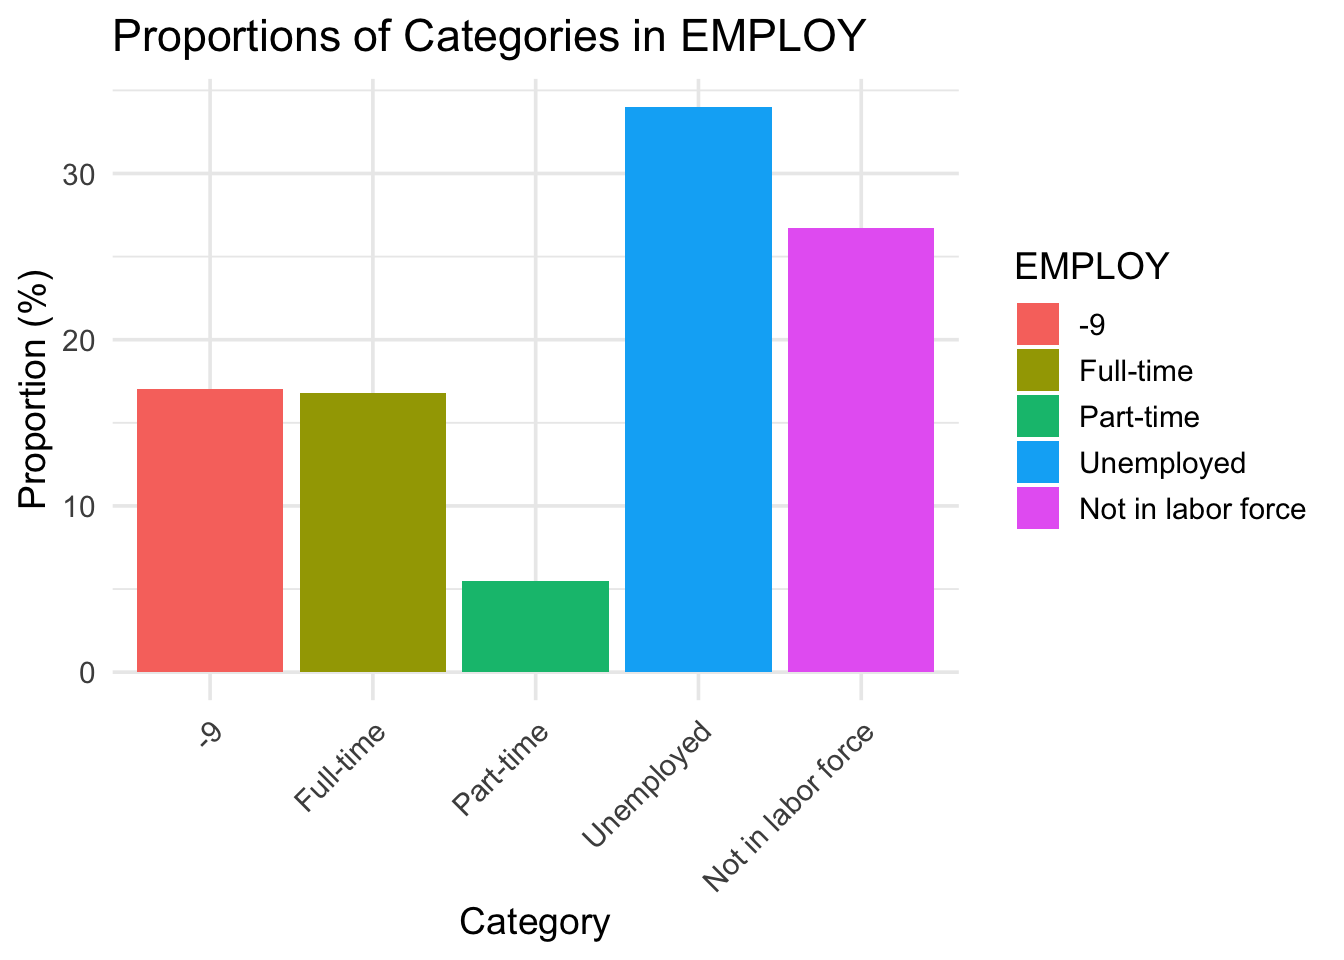
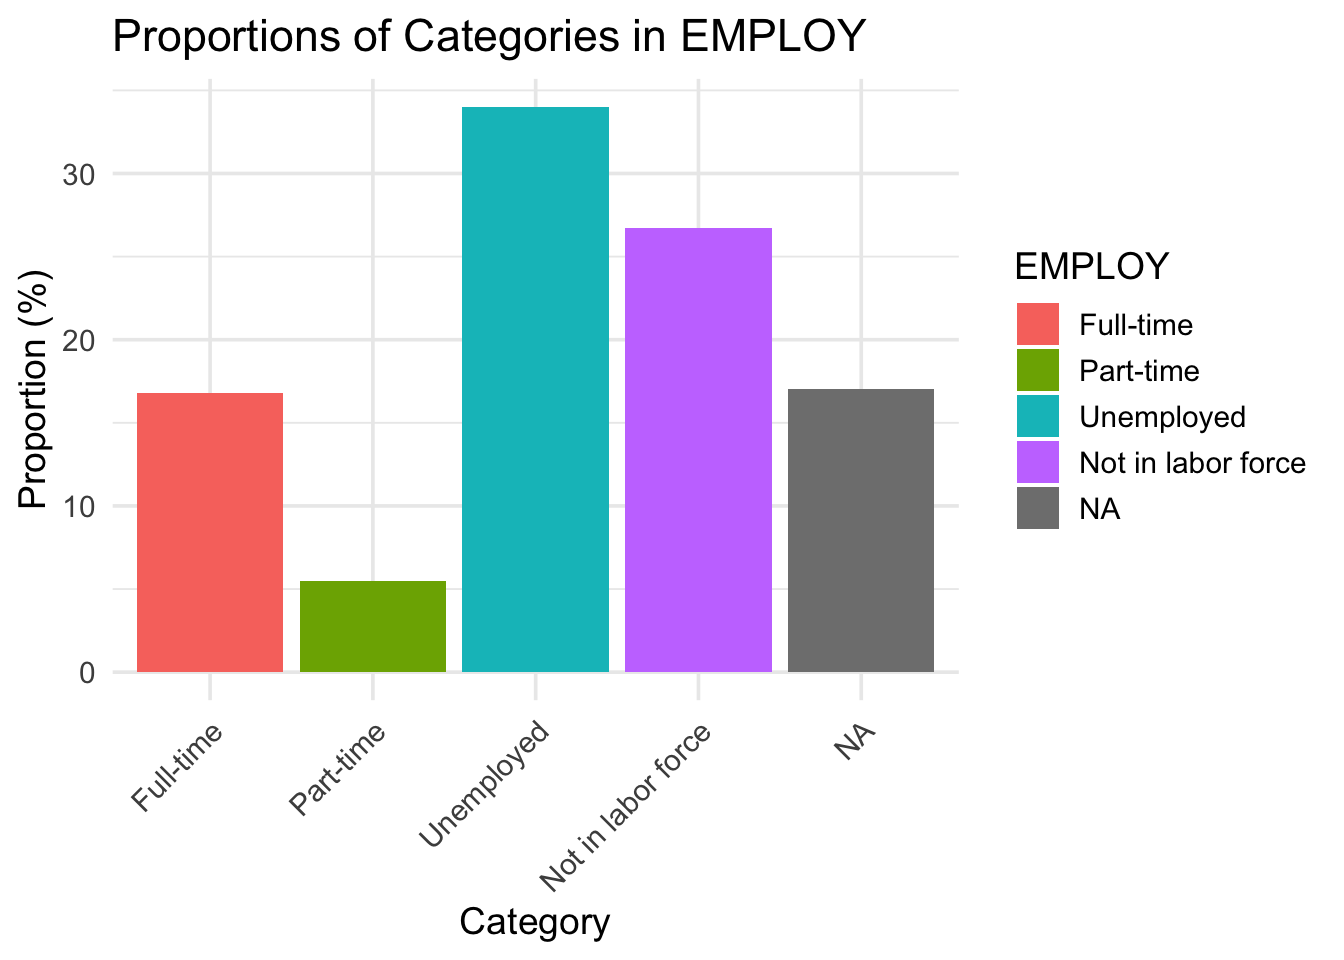
modified data.qmd

diff --git a/docs/data.html b/docs/data.html
@@ -206,11 +206,12 @@ pre > code.sourceCode > span > a:first-child::before { text-decoration: underlin
 <span id="cb2-6"><a href="#cb2-6" aria-hidden="true" tabindex="-1"></a>  } <span class="cf">else</span> {</span>
 <span id="cb2-7"><a href="#cb2-7" aria-hidden="true" tabindex="-1"></a>    col</span>
 <span id="cb2-8"><a href="#cb2-8" aria-hidden="true" tabindex="-1"></a>  }</span>
-<span id="cb2-9"><a href="#cb2-9" aria-hidden="true" tabindex="-1"></a>}))</span></code><button title="Copy to Clipboard" class="code-copy-button"><i class="bi"></i></button></pre></div>
+<span id="cb2-9"><a href="#cb2-9" aria-hidden="true" tabindex="-1"></a>}))</span>
+<span id="cb2-10"><a href="#cb2-10" aria-hidden="true" tabindex="-1"></a></span>
+<span id="cb2-11"><a href="#cb2-11" aria-hidden="true" tabindex="-1"></a>tedsa_puf_2021_r[tedsa_puf_2021_r <span class="sc">==</span> <span class="sc">-</span><span class="dv">9</span>] <span class="ot">&lt;-</span> <span class="cn">NA</span></span></code><button title="Copy to Clipboard" class="code-copy-button"><i class="bi"></i></button></pre></div>
 </details>
 </div>
-<p>While the TEDS-A dataset provides extensive coverage of treatment admissions in 2021, it has several limitations due to missing or incomplete data. Some variables contain a significant proportion of missing values, coded as -9 to denote unknown, invalid, or uncollected data. For example, the pregnancy status variable is missing for 68.8% of cases, primarily because this variable is not applicable to male clients. Employment status has 17.0% missing data, likely reflecting cases where the information was unavailable or not collected. Similarly, frequency of substance use for primary substances has 18.8% missing values. These missing data points can pose challenges for analysis by reducing the reliability of certain conclusions.</p>
-<p>In the graph below, -9 represents missing data in the dataset.</p>
+<p>While the TEDS-A dataset provides extensive coverage of treatment admissions in 2021, it has several limitations due to missing or incomplete data. Some variables contain a significant proportion of missing values, invalid, or uncollected data. For example, employment status has 17.0% missing data, likely reflecting cases where the information was unavailable or not collected. Similarly, frequency of substance use for primary substances has 18.8% missing values. These missing data points can pose challenges for analysis by reducing the reliability of certain conclusions.</p>
 <div class="cell">
 <details class="code-fold">
 <summary>Code</summary>
@@ -241,7 +242,7 @@ Attaching package: 'dplyr'</code></pre>
 <span id="cb7-6"><a href="#cb7-6" aria-hidden="true" tabindex="-1"></a>           <span class="at">variable =</span> column)</span>
 <span id="cb7-7"><a href="#cb7-7" aria-hidden="true" tabindex="-1"></a>}</span>
 <span id="cb7-8"><a href="#cb7-8" aria-hidden="true" tabindex="-1"></a></span>
-<span id="cb7-9"><a href="#cb7-9" aria-hidden="true" tabindex="-1"></a>variables <span class="ot">&lt;-</span> <span class="fu">c</span>(<span class="st">"EMPLOY"</span>, <span class="st">"PREG"</span>, <span class="st">"FREQ1"</span>)</span>
+<span id="cb7-9"><a href="#cb7-9" aria-hidden="true" tabindex="-1"></a>variables <span class="ot">&lt;-</span> <span class="fu">c</span>(<span class="st">"EMPLOY"</span>, <span class="st">"FREQ1"</span>)</span>
 <span id="cb7-10"><a href="#cb7-10" aria-hidden="true" tabindex="-1"></a></span>
 <span id="cb7-11"><a href="#cb7-11" aria-hidden="true" tabindex="-1"></a><span class="cf">for</span> (var <span class="cf">in</span> variables) {</span>
 <span id="cb7-12"><a href="#cb7-12" aria-hidden="true" tabindex="-1"></a>  plot_data <span class="ot">&lt;-</span> <span class="fu">calculate_proportions</span>(tedsa_puf_2021_r, var)</span>
@@ -276,10 +277,29 @@ Attaching package: 'dplyr'</code></pre>
 </figure>
 </div>
 </div>
+</div>
+<div class="cell">
+<details class="code-fold">
+<summary>Code</summary>
+<div class="sourceCode cell-code" id="cb9"><pre class="sourceCode r code-with-copy"><code class="sourceCode r"><span id="cb9-1"><a href="#cb9-1" aria-hidden="true" tabindex="-1"></a><span class="fu">library</span>(redav)</span>
+<span id="cb9-2"><a href="#cb9-2" aria-hidden="true" tabindex="-1"></a><span class="fu">library</span>(ggplot2)</span>
+<span id="cb9-3"><a href="#cb9-3" aria-hidden="true" tabindex="-1"></a></span>
+<span id="cb9-4"><a href="#cb9-4" aria-hidden="true" tabindex="-1"></a>cols_to_keep <span class="ot">&lt;-</span> <span class="fu">c</span>(<span class="st">"AGE"</span>, <span class="st">"GENDER"</span>, <span class="st">"RACE"</span>, <span class="st">"MARSTAT"</span>, <span class="st">"EDUC"</span>, <span class="st">"EMPLOY"</span>, <span class="st">"LIVARAG"</span>, <span class="st">"SERVICES"</span>, </span>
+<span id="cb9-5"><a href="#cb9-5" aria-hidden="true" tabindex="-1"></a>                  <span class="st">"METHUSE"</span>, <span class="st">"DAYWAIT"</span>, <span class="st">"SUB1"</span>, <span class="st">"FREQ1"</span>, <span class="st">"FRSTUSE1"</span>, <span class="st">"DSMCRIT"</span>)</span>
+<span id="cb9-6"><a href="#cb9-6" aria-hidden="true" tabindex="-1"></a>tedsa_puf_2021_r_new <span class="ot">&lt;-</span> tedsa_puf_2021_r[ , cols_to_keep]</span>
+<span id="cb9-7"><a href="#cb9-7" aria-hidden="true" tabindex="-1"></a></span>
+<span id="cb9-8"><a href="#cb9-8" aria-hidden="true" tabindex="-1"></a><span class="fu">plot_missing</span>(tedsa_puf_2021_r_new, <span class="at">max_rows=</span><span class="dv">5</span>, <span class="at">max_cols=</span><span class="dv">7</span>)</span></code><button title="Copy to Clipboard" class="code-copy-button"><i class="bi"></i></button></pre></div>
+</details>
+<div class="cell-output cell-output-stderr">
+<pre><code>Scale for y is already present.
+Adding another scale for y, which will replace the existing scale.
+Scale for y is already present.
+Adding another scale for y, which will replace the existing scale.</code></pre>
+</div>
 <div class="cell-output-display">
 <div>
 <figure class="figure">
-<p><img src="data_files/figure-html/unnamed-chunk-3-3.png" class="img-fluid figure-img" width="672"></p>
+<p><img src="data_files/figure-html/unnamed-chunk-4-1.png" class="img-fluid figure-img" width="672"></p>
 </figure>
 </div>
 </div>
@@ -287,33 +307,27 @@ Attaching package: 'dplyr'</code></pre>
 <div class="cell">
 <details class="code-fold">
 <summary>Code</summary>
-<div class="sourceCode cell-code" id="cb9"><pre class="sourceCode r code-with-copy"><code class="sourceCode r"><span id="cb9-1"><a href="#cb9-1" aria-hidden="true" tabindex="-1"></a>tedsa_puf_2021_r[tedsa_puf_2021_r <span class="sc">==</span> <span class="sc">-</span><span class="dv">9</span>] <span class="ot">&lt;-</span> <span class="cn">NA</span></span></code><button title="Copy to Clipboard" class="code-copy-button"><i class="bi"></i></button></pre></div>
-</details>
-</div>
-<div class="cell">
-<details class="code-fold">
-<summary>Code</summary>
-<div class="sourceCode cell-code" id="cb10"><pre class="sourceCode r code-with-copy"><code class="sourceCode r"><span id="cb10-1"><a href="#cb10-1" aria-hidden="true" tabindex="-1"></a><span class="fu">library</span>(naniar)</span>
-<span id="cb10-2"><a href="#cb10-2" aria-hidden="true" tabindex="-1"></a><span class="fu">library</span>(ggplot2)</span>
-<span id="cb10-3"><a href="#cb10-3" aria-hidden="true" tabindex="-1"></a></span>
-<span id="cb10-4"><a href="#cb10-4" aria-hidden="true" tabindex="-1"></a>missing_summary <span class="ot">&lt;-</span> <span class="fu">colSums</span>(<span class="fu">is.na</span>(tedsa_puf_2021_r)) <span class="sc">/</span> <span class="fu">nrow</span>(tedsa_puf_2021_r) <span class="sc">*</span> <span class="dv">100</span></span>
-<span id="cb10-5"><a href="#cb10-5" aria-hidden="true" tabindex="-1"></a>missing_data <span class="ot">&lt;-</span> <span class="fu">data.frame</span>(</span>
-<span id="cb10-6"><a href="#cb10-6" aria-hidden="true" tabindex="-1"></a>  <span class="at">Variable =</span> <span class="fu">names</span>(missing_summary),</span>
-<span id="cb10-7"><a href="#cb10-7" aria-hidden="true" tabindex="-1"></a>  <span class="at">MissingPercentage =</span> missing_summary</span>
-<span id="cb10-8"><a href="#cb10-8" aria-hidden="true" tabindex="-1"></a>)</span>
-<span id="cb10-9"><a href="#cb10-9" aria-hidden="true" tabindex="-1"></a></span>
-<span id="cb10-10"><a href="#cb10-10" aria-hidden="true" tabindex="-1"></a><span class="fu">ggplot</span>(missing_data, <span class="fu">aes</span>(<span class="at">x =</span> <span class="fu">reorder</span>(Variable, <span class="sc">-</span>MissingPercentage), <span class="at">y =</span> MissingPercentage, <span class="at">fill =</span> Variable)) <span class="sc">+</span></span>
-<span id="cb10-11"><a href="#cb10-11" aria-hidden="true" tabindex="-1"></a>  <span class="fu">geom_bar</span>(<span class="at">stat =</span> <span class="st">"identity"</span>, <span class="at">show.legend =</span> <span class="cn">FALSE</span>) <span class="sc">+</span></span>
-<span id="cb10-12"><a href="#cb10-12" aria-hidden="true" tabindex="-1"></a>  <span class="fu">labs</span>(</span>
-<span id="cb10-13"><a href="#cb10-13" aria-hidden="true" tabindex="-1"></a>    <span class="at">title =</span> <span class="st">"Missing Data Distribution by Variable"</span>,</span>
-<span id="cb10-14"><a href="#cb10-14" aria-hidden="true" tabindex="-1"></a>    <span class="at">x =</span> <span class="st">"Variable"</span>,</span>
-<span id="cb10-15"><a href="#cb10-15" aria-hidden="true" tabindex="-1"></a>    <span class="at">y =</span> <span class="st">"Missing Percentage (%)"</span></span>
-<span id="cb10-16"><a href="#cb10-16" aria-hidden="true" tabindex="-1"></a>  ) <span class="sc">+</span></span>
-<span id="cb10-17"><a href="#cb10-17" aria-hidden="true" tabindex="-1"></a>  <span class="fu">theme_minimal</span>(<span class="at">base_size =</span> <span class="dv">14</span>) <span class="sc">+</span></span>
-<span id="cb10-18"><a href="#cb10-18" aria-hidden="true" tabindex="-1"></a>  <span class="fu">theme</span>(</span>
-<span id="cb10-19"><a href="#cb10-19" aria-hidden="true" tabindex="-1"></a>    <span class="at">axis.text.x =</span> <span class="fu">element_text</span>(<span class="at">size =</span> <span class="dv">6</span>, <span class="at">angle =</span> <span class="dv">45</span>, <span class="at">hjust =</span> <span class="dv">1</span>), </span>
-<span id="cb10-20"><a href="#cb10-20" aria-hidden="true" tabindex="-1"></a>    <span class="at">axis.text.y =</span> <span class="fu">element_text</span>(<span class="at">size =</span> <span class="dv">8</span>) </span>
-<span id="cb10-21"><a href="#cb10-21" aria-hidden="true" tabindex="-1"></a>  )</span></code><button title="Copy to Clipboard" class="code-copy-button"><i class="bi"></i></button></pre></div>
+<div class="sourceCode cell-code" id="cb11"><pre class="sourceCode r code-with-copy"><code class="sourceCode r"><span id="cb11-1"><a href="#cb11-1" aria-hidden="true" tabindex="-1"></a><span class="fu">library</span>(naniar)</span>
+<span id="cb11-2"><a href="#cb11-2" aria-hidden="true" tabindex="-1"></a><span class="fu">library</span>(ggplot2)</span>
+<span id="cb11-3"><a href="#cb11-3" aria-hidden="true" tabindex="-1"></a></span>
+<span id="cb11-4"><a href="#cb11-4" aria-hidden="true" tabindex="-1"></a>missing_summary <span class="ot">&lt;-</span> <span class="fu">colSums</span>(<span class="fu">is.na</span>(tedsa_puf_2021_r_new)) <span class="sc">/</span> <span class="fu">nrow</span>(tedsa_puf_2021_r_new) <span class="sc">*</span> <span class="dv">100</span></span>
+<span id="cb11-5"><a href="#cb11-5" aria-hidden="true" tabindex="-1"></a>missing_data <span class="ot">&lt;-</span> <span class="fu">data.frame</span>(</span>
+<span id="cb11-6"><a href="#cb11-6" aria-hidden="true" tabindex="-1"></a>  <span class="at">Variable =</span> <span class="fu">names</span>(missing_summary),</span>
+<span id="cb11-7"><a href="#cb11-7" aria-hidden="true" tabindex="-1"></a>  <span class="at">MissingPercentage =</span> missing_summary</span>
+<span id="cb11-8"><a href="#cb11-8" aria-hidden="true" tabindex="-1"></a>)</span>
+<span id="cb11-9"><a href="#cb11-9" aria-hidden="true" tabindex="-1"></a></span>
+<span id="cb11-10"><a href="#cb11-10" aria-hidden="true" tabindex="-1"></a><span class="fu">ggplot</span>(missing_data, <span class="fu">aes</span>(<span class="at">x =</span> <span class="fu">reorder</span>(Variable, <span class="sc">-</span>MissingPercentage), <span class="at">y =</span> MissingPercentage, <span class="at">fill =</span> Variable)) <span class="sc">+</span></span>
+<span id="cb11-11"><a href="#cb11-11" aria-hidden="true" tabindex="-1"></a>  <span class="fu">geom_bar</span>(<span class="at">stat =</span> <span class="st">"identity"</span>, <span class="at">show.legend =</span> <span class="cn">FALSE</span>) <span class="sc">+</span></span>
+<span id="cb11-12"><a href="#cb11-12" aria-hidden="true" tabindex="-1"></a>  <span class="fu">labs</span>(</span>
+<span id="cb11-13"><a href="#cb11-13" aria-hidden="true" tabindex="-1"></a>    <span class="at">title =</span> <span class="st">"Missing Data Distribution by Variable"</span>,</span>
+<span id="cb11-14"><a href="#cb11-14" aria-hidden="true" tabindex="-1"></a>    <span class="at">x =</span> <span class="st">"Variable"</span>,</span>
+<span id="cb11-15"><a href="#cb11-15" aria-hidden="true" tabindex="-1"></a>    <span class="at">y =</span> <span class="st">"Missing Percentage (%)"</span></span>
+<span id="cb11-16"><a href="#cb11-16" aria-hidden="true" tabindex="-1"></a>  ) <span class="sc">+</span></span>
+<span id="cb11-17"><a href="#cb11-17" aria-hidden="true" tabindex="-1"></a>  <span class="fu">theme_minimal</span>(<span class="at">base_size =</span> <span class="dv">14</span>) <span class="sc">+</span></span>
+<span id="cb11-18"><a href="#cb11-18" aria-hidden="true" tabindex="-1"></a>  <span class="fu">theme</span>(</span>
+<span id="cb11-19"><a href="#cb11-19" aria-hidden="true" tabindex="-1"></a>    <span class="at">axis.text.x =</span> <span class="fu">element_text</span>(<span class="at">size =</span> <span class="dv">10</span>, <span class="at">angle =</span> <span class="dv">45</span>, <span class="at">hjust =</span> <span class="dv">1</span>), </span>
+<span id="cb11-20"><a href="#cb11-20" aria-hidden="true" tabindex="-1"></a>    <span class="at">axis.text.y =</span> <span class="fu">element_text</span>(<span class="at">size =</span> <span class="dv">8</span>) </span>
+<span id="cb11-21"><a href="#cb11-21" aria-hidden="true" tabindex="-1"></a>  )</span></code><button title="Copy to Clipboard" class="code-copy-button"><i class="bi"></i></button></pre></div>
 </details>
 <div class="cell-output-display">
 <div>
